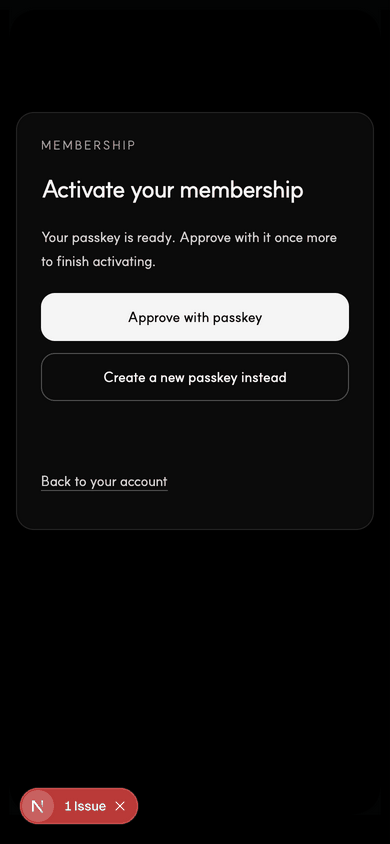
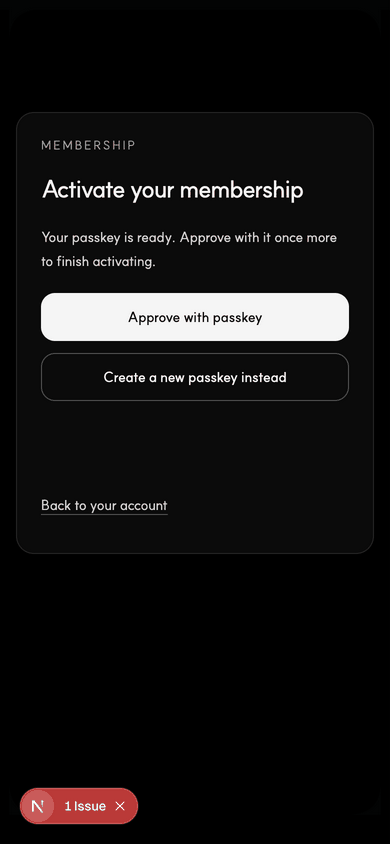
fix(wallet): Santa round 1 — anchored card, focus and announcement, accurate copy, entry in the signed-in account view
- card anchored to the top; status slot reserves two lines (all messages
  measured at 390 px)
- state changes move focus to the h1 and are announced
- Check again shown with an unknown result; stale errors cleared
- own messages for pre-prompt failures, other-device passkeys, the
  pending-passkey cap (PENDING_LIMIT) and cause-neutral holds;
  WALLET_ACTIVE re-reads status
- create path announces the second prompt
- account entry rendered inside the signed-in member view; shop
  confirmation shows it only when there is activation to do
- re-render of the affected states

Changed region(s): [[0.0923, 0.5545, 0.4308, 0.6161]]

diff --git a/tests/member-auth/member-auth-ui-render.test.tsx b/tests/member-auth/member-auth-ui-render.test.tsx
@@ -308,3 +308,10 @@ test("recovery entry is explicit and available only to login with a supplied hoo
   assert.doesNotMatch(render(anonymous, {}, "email", "signup", { onRecover }), /Can’t sign in/);
   assert.doesNotMatch(render({ ...anonymous, authenticated: true, phoneBindingAuth: "ready" as const, emailVerified: true }, {}, "email", "login", { onRecover }), /Can’t sign in/);
 });
+
+test("a member action renders inside the signed-in member view only", () => {
+  const member = { ...anonymous, authenticated: true, phoneBindingAuth: "ready" as const, emailVerified: true, phoneBound: true, member: true };
+  const action = <a href="/account/activate">Activate your membership</a>;
+  assert.match(render(member, {}, "email", "login", { memberAction: action }), /href="\/account\/activate"/);
+  assert.doesNotMatch(render(anonymous, {}, "email", "login", { memberAction: action }), /href="\/account\/activate"/);
+});

diff --git a/tests/commerce/ui/wallet-activation-dom.test.tsx b/tests/commerce/ui/wallet-activation-dom.test.tsx
@@ -690,7 +690,9 @@ test("limits, another-device passkeys and holds are described accurately", async
   ui.fireEvent.click(
     ui.screen.getByRole("button", { name: "Approve with passkey" })
   );
-  await ui.screen.findByText(/saved on another device/);
+  await ui.screen.findByText(
+    /If your passkey is on another device, open this page there/
+  );
   ui.cleanup();
   t.mock.method(globalThis, "fetch", async (input: RequestInfo | URL) =>
     String(input).endsWith("/status")

diff --git a/docs/qa/wallet-activation-20261116/handback.md b/docs/qa/wallet-activation-20261116/handback.md
@@ -1,6 +1,6 @@
 # SPH-WALLET-ACTIVATION-20261116-01: handback
 
-**State: candidate (render pass and security fixes done).** It meets acceptance criteria 1–4, with the limits stated below. The live render covers all seven page states, and the seven security review items are fixed; both are described below. It merges into `codex/auth-payment-nfc`, not `main`.
+**State: candidate (Santa round 1 fixes done).** It meets acceptance criteria 1–4, with the limits stated below. The live render covers all seven page states, and the seven security review items are fixed; both are described below. It merges into `codex/auth-payment-nfc`, not `main`.
 
 - Branch `codex/wallet-activation-20261116`. Orca created it as `xnxchoi/…`; I renamed it as my first action, as the coordinator asked.
 - Base `4657dbb`. The candidate commit follows this file.
@@ -107,6 +107,61 @@ I wrote the tests first. Against the committed `31ddea3` source, the new tests g
    - *Not genuinely red.* The test passed on the old code too, because the old code already checked expiry before verifying. The change is that the check now happens at consume time, under the lock.
 
 **Migration.** Regenerated in place as one additive migration (`20261115_201256_member_wallets`), replacing the unmerged `20261115_180919` one. Its JSON snapshot shows `member_id` nullable, `wallet_key` not unique, and unique `active_wallet_key` and `member_wallet_key`. The `down` order and whitespace are normalised as before. `payload-types.ts` was regenerated, and `payload-generated-schema.ts` is unchanged.
+
+## Santa round 1 fixes (task_935046eae45b)
+
+Tests came first where the behaviour was testable. Against `90ed287`, the new tests gave 27 tests: 21 pass, **6 fail**. After the fixes, the focused suites pass 79/79.
+
+1. **Layout jump.**
+   - *Card anchored.* The card is anchored to the top (`items-start`; no `items-center`, no `min-h-[70svh]`).
+   - *Status slot.* The slot reserves two lines (`min-h-12`) wherever actions exist.
+   - *Message length.* I measured every message live at 390 px. Two of the new messages ran to three lines, so I shortened both, and every message now fits two lines.
+   - *Live result.* On success at 390 px the heading stays at 173 px before and after.
+2. **Announcement.** On every state change, focus moves to the h1 (`tabIndex -1`). The status region always stays mounted, and it announces the new state's title (for example "Membership activated").
+3. **Dead end.** "Check again" shows whenever `errorUnknown` shows. A refresh that changes the state clears the stale error; after a failure, the error is kept.
+4. **Accurate copy:**
+   - a `bind/options` or `register/options` failure says "We couldn't start the passkey request. Nothing has changed…";
+   - a cancelled approval adds "If your passkey is on another device, open this page there." (only one credential is offered, so the other-device case is explained rather than built);
+   - the persistent three-pending cap has its own server code, `PENDING_LIMIT` (409), and copy; the challenge cap and the rate limit say "Wait a few minutes";
+   - `WALLET_ACTIVE` now re-reads the status and shows the real state, never a conflict line;
+   - the hold copy is cause-neutral: "Your key can't be issued while this order has an open request or review. You don't need to do anything here."
+5. **Account entry.**
+   - *Placement.* `WalletActivationLink` now renders inside the signed-in member view, through a new `memberAction` slot (page → `TicketAccountEntry` → `MemberAccountStudy` → dialog → flow → view), instead of being appended below the tray.
+   - *Refresh on sign-in.* The entry mounts only once the member is signed in, so it reads the new session's status after an in-place email-code sign-in.
+   - *Tests.* A render test shows it appears for a signed-in member and never for an anonymous one.
+6. **Two prompts.** The create copy says "You'll be asked to approve with it right after". Before the second prompt opens, the status reads "Passkey created. Approve with it once more to finish." (committed synchronously with `flushSync`, so it is on the page first).
+7. **Shop confirmation.** It shows the state-driven `WalletActivationLink`, which renders only while this member has activation to do. A confirmed order with no membership to activate shows nothing.
+
+**Reported auth test** ("chooser closes and reopens while focused account actions preserve real email-code state"): I couldn't reproduce it. On this branch at `90ed287` it passed alone and in its file (37/37), and it passed again in the full suite after these changes.
+
+### Re-render (`render/`)
+
+All captures are against seeded disposable PostgreSQL, signed in through the existing passkey endpoints:
+
+| Capture | What it shows |
+| --- | --- |
+| `activation-required-{390,1280}` | the activation-required state |
+| `approval-pending-{390,1280}` | the approval-pending state |
+| `flow-approve-result-390` | success in place: heading still at 173 px, focus on the h1, status "Membership activated" |
+| `flow-approve-error-{390,1280}` | cancelled approval |
+| `flow-approve-rejected-1280` | a rejected verify; heading stays at 181 px and the card height is unchanged |
+| `account-entry-signed-in-{390,1280}` | the entry inside "Account ready" (48 px link, no horizontal scroll) |
+
+**Capture caveats:**
+- The `flow-approve-error-*` shots show the earlier three-line wording. I shortened it to two lines afterwards; the new wording was measured live but not re-shot.
+- There is no 1280 success shot: the pending-wallet fixture key was rejected by verify. The 1280 success destination looks like `key-pending-1280`.
+- The `on-hold-*` captures predate the new hold copy.
+
+**Follow-up.** In the signed-in view, "Activate your membership" and "Add a passkey" are now both primary buttons. Demoting "Add a passkey" needs a change to the auth view's button rule, which I didn't make.
+
+### Gates (round 1)
+
+| Gate | Result |
+| --- | --- |
+| Typecheck | 0 errors |
+| Default suite | 3054 tests: **3006 pass, 2 fail** (the known deferred-styling tests), 46 skipped |
+| Diff check | clean |
+| DB proof | not rerun. The only server change is the `PENDING_LIMIT` code, which the unit tests cover. |
 
 ## Gates (final revision)
 
